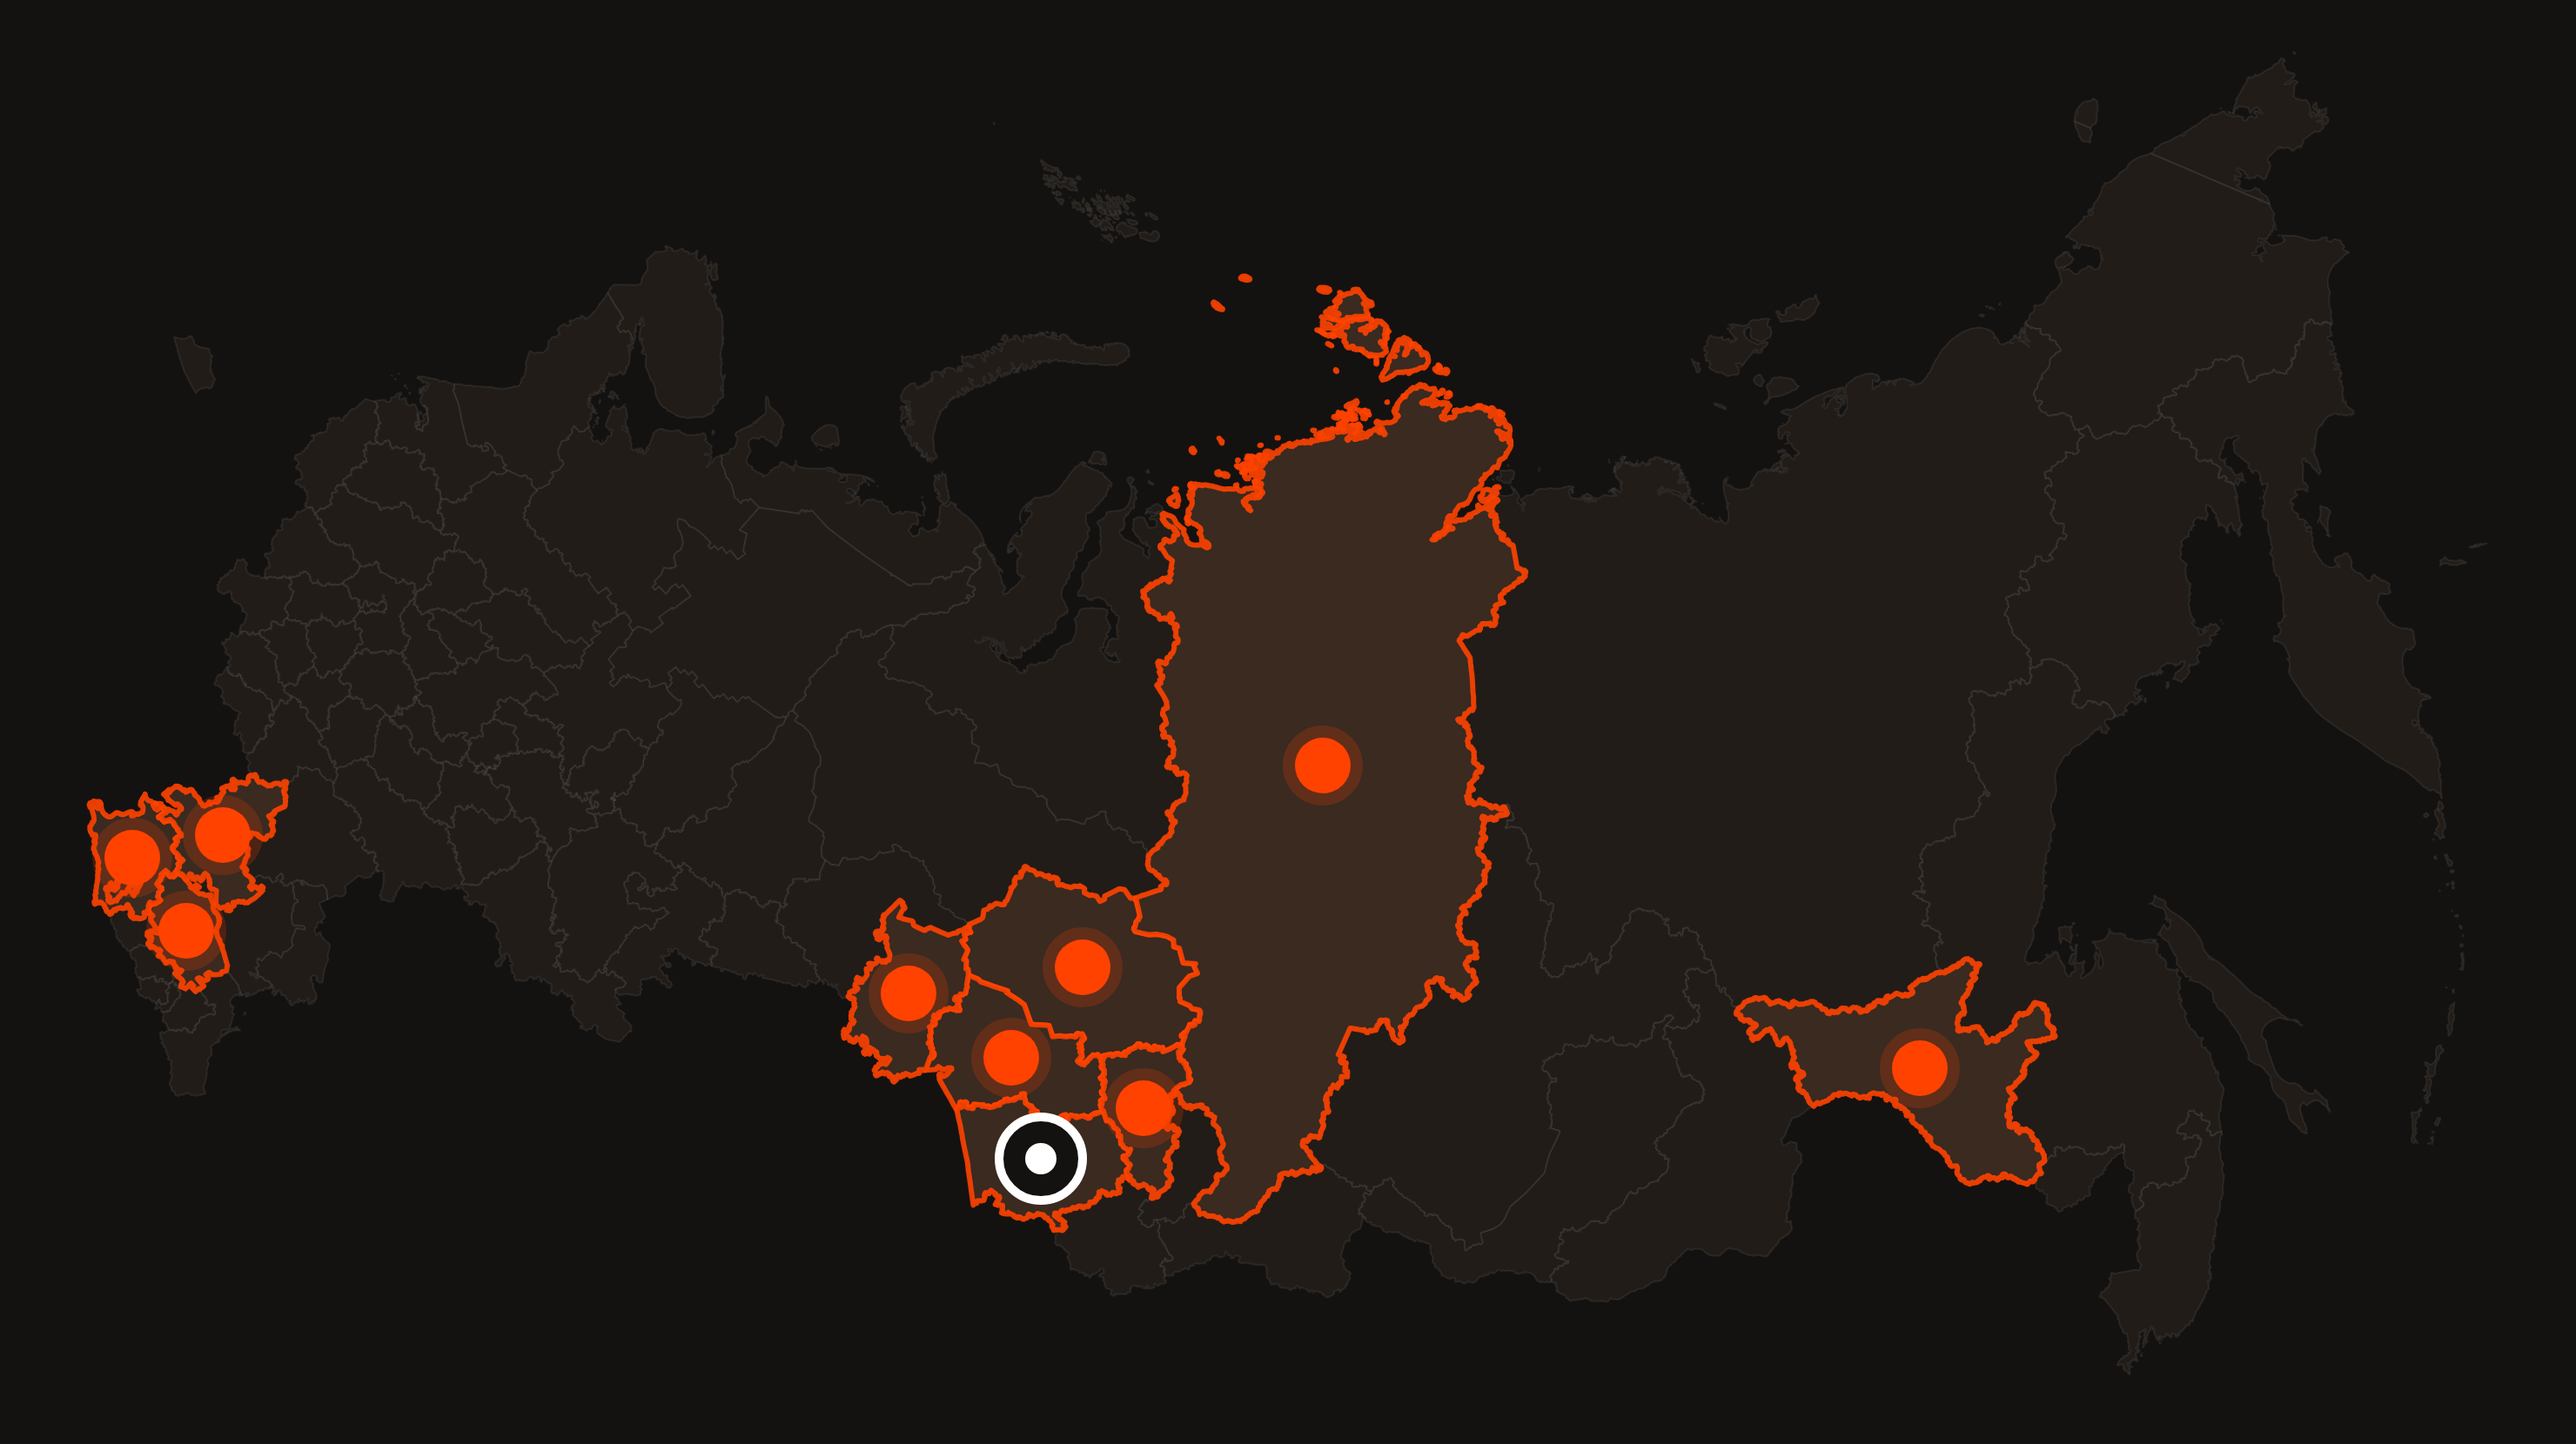
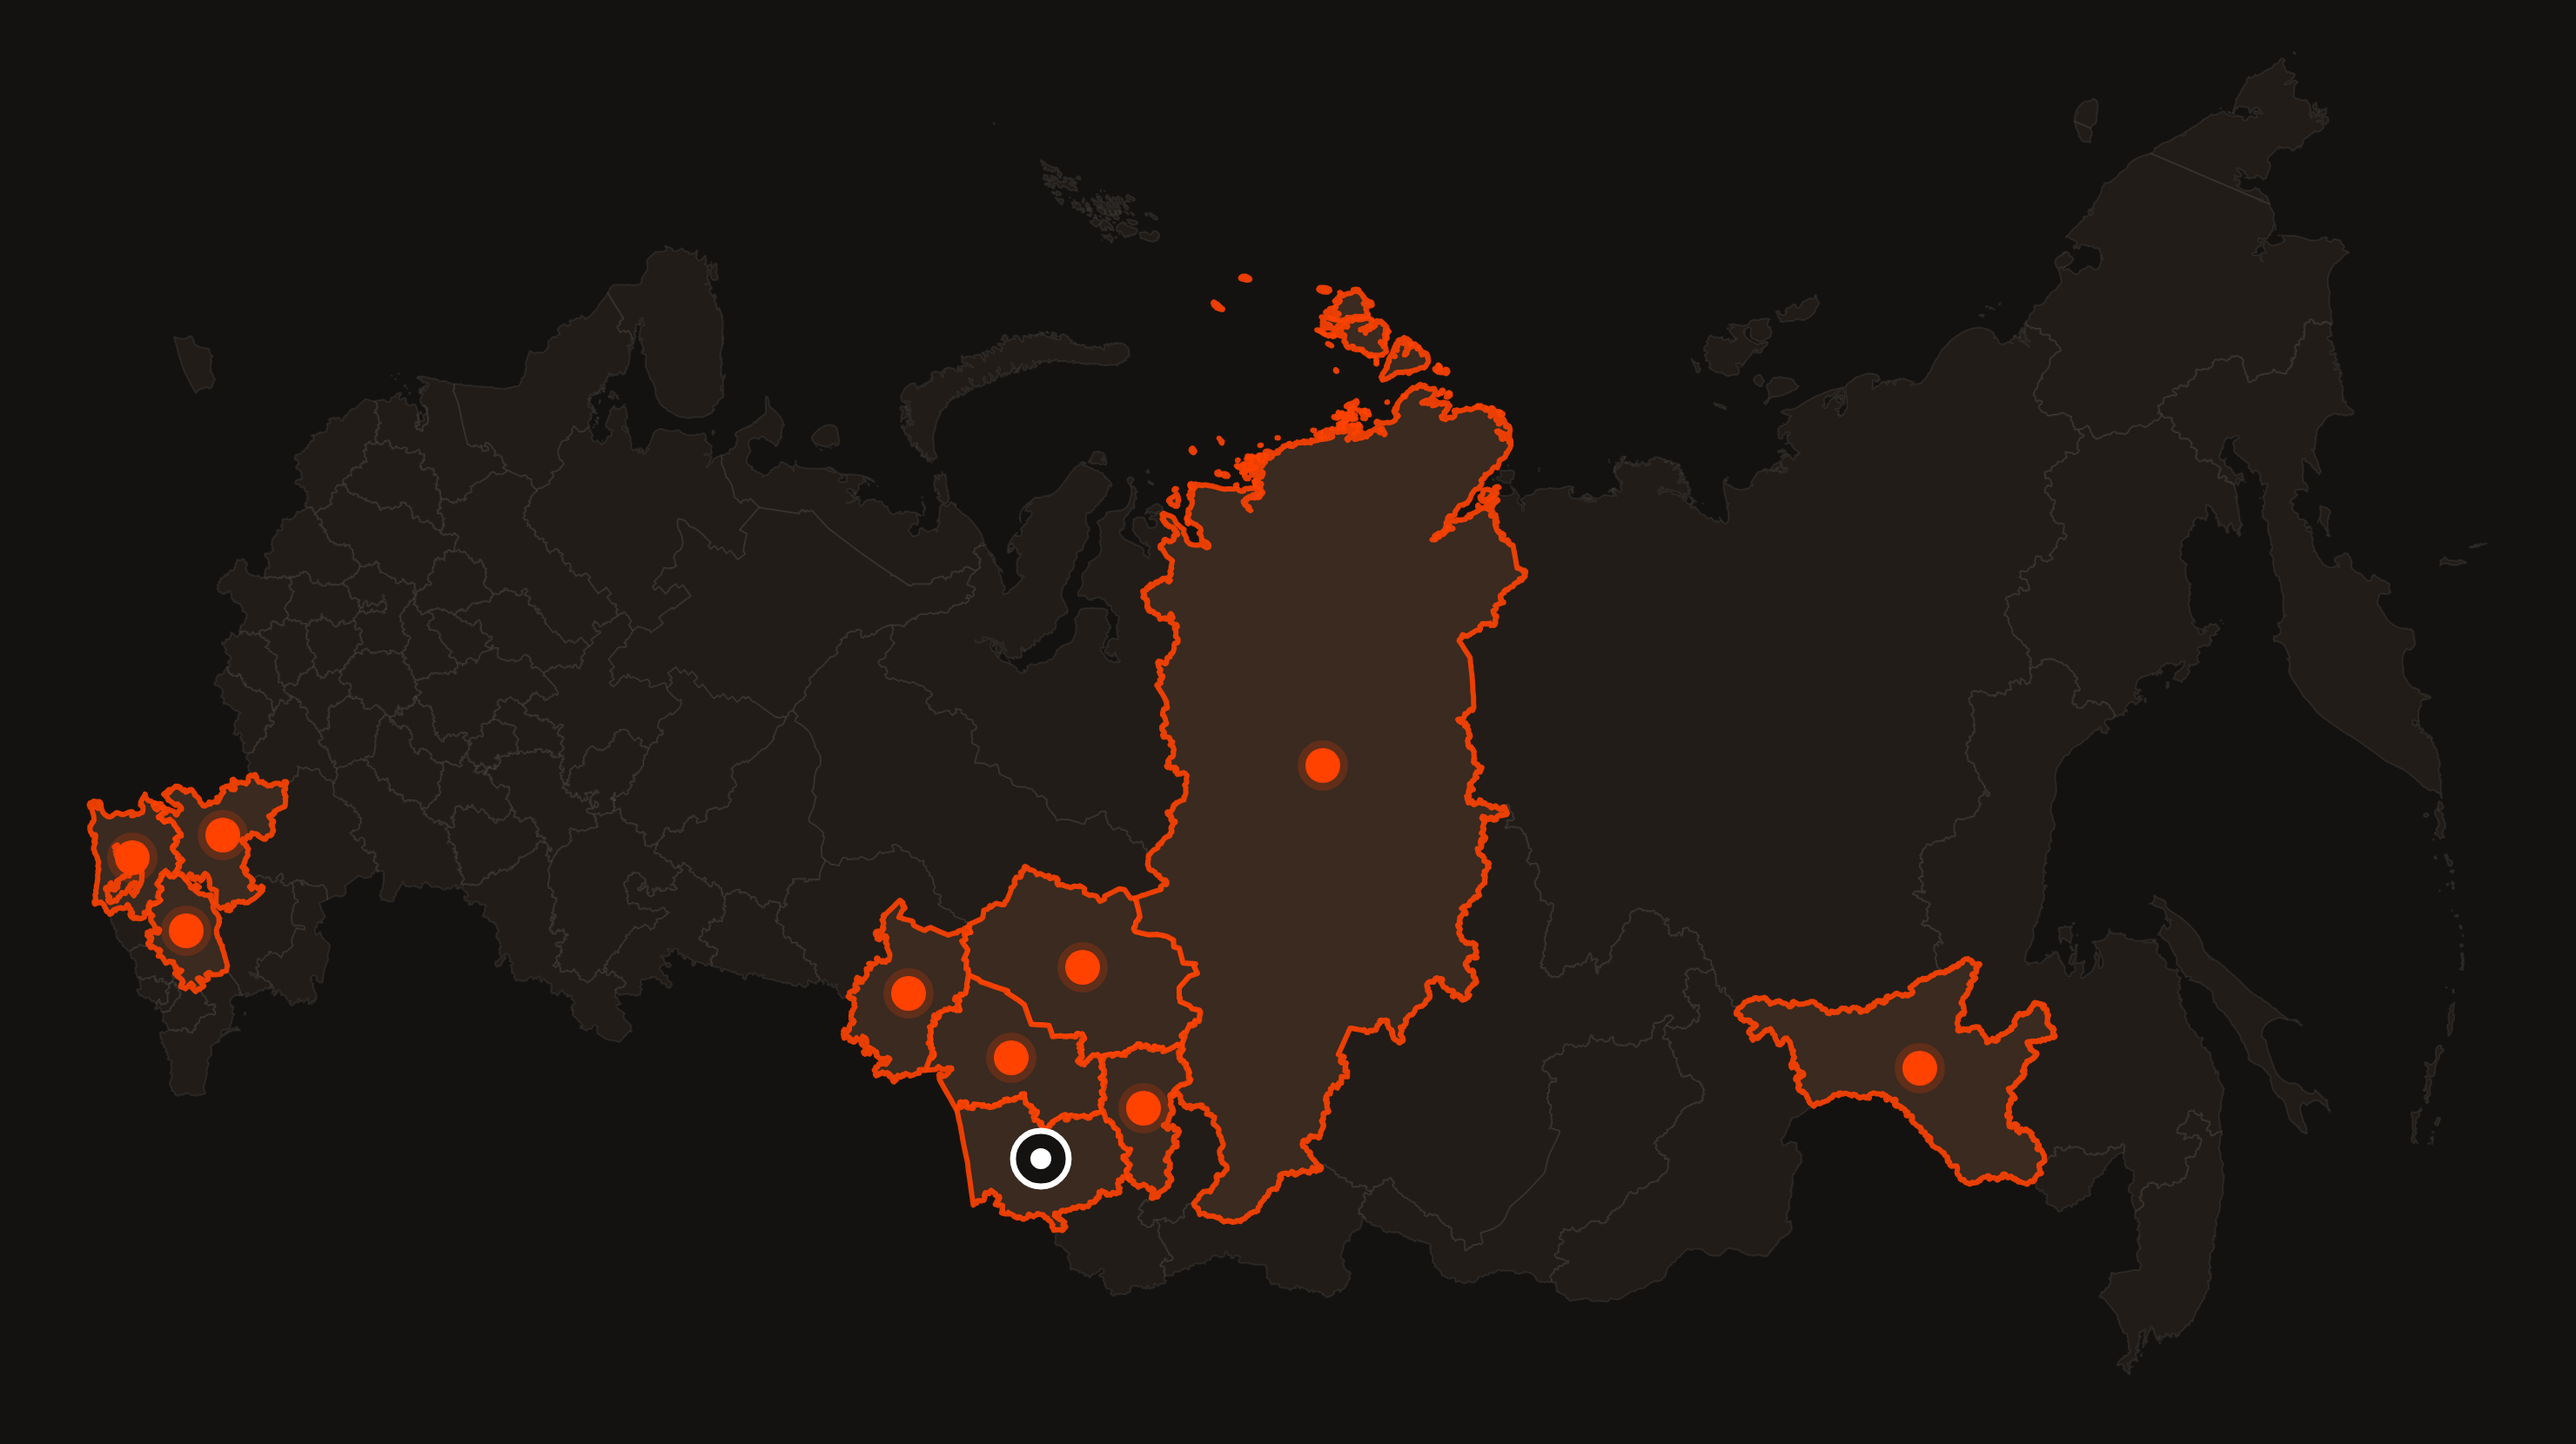
Карта для телефона: точки мельче
Claude-Session: https://claude.ai/code/session_017Yu2wUyZks2ZT3AxJsvZAM

diff --git a/design/geo-map/build_map_mobile_clean.py b/design/geo-map/build_map_mobile_clean.py
@@ -30,9 +30,9 @@ for nm, rr, t in all_regions:
 for nm in TARGETS:
     px, py = PIN[nm]
     if nm == OFFICE:
-        svg.append(f'<circle cx="{px:.0f}" cy="{py:.0f}" r="24" fill="{BG}" stroke="#fff" stroke-width="5"/><circle cx="{px:.0f}" cy="{py:.0f}" r="9" fill="#fff"/>')
+        svg.append(f'<circle cx="{px:.0f}" cy="{py:.0f}" r="16" fill="{BG}" stroke="#fff" stroke-width="3.4"/><circle cx="{px:.0f}" cy="{py:.0f}" r="6" fill="#fff"/>')
     else:
-        svg.append(f'<circle cx="{px:.0f}" cy="{py:.0f}" r="16" fill="none" stroke="{ORANGE}" stroke-opacity=".20" stroke-width="14"/><circle cx="{px:.0f}" cy="{py:.0f}" r="16" fill="{ORANGE}"/>')
+        svg.append(f'<circle cx="{px:.0f}" cy="{py:.0f}" r="10" fill="none" stroke="{ORANGE}" stroke-opacity=".20" stroke-width="9"/><circle cx="{px:.0f}" cy="{py:.0f}" r="10" fill="{ORANGE}"/>')
 svg.append('</svg>')
 io.open(os.path.join(here, 'map_mobile_clean.svg'), 'w', encoding='utf-8').write('\n'.join(svg))
 print('ok')
